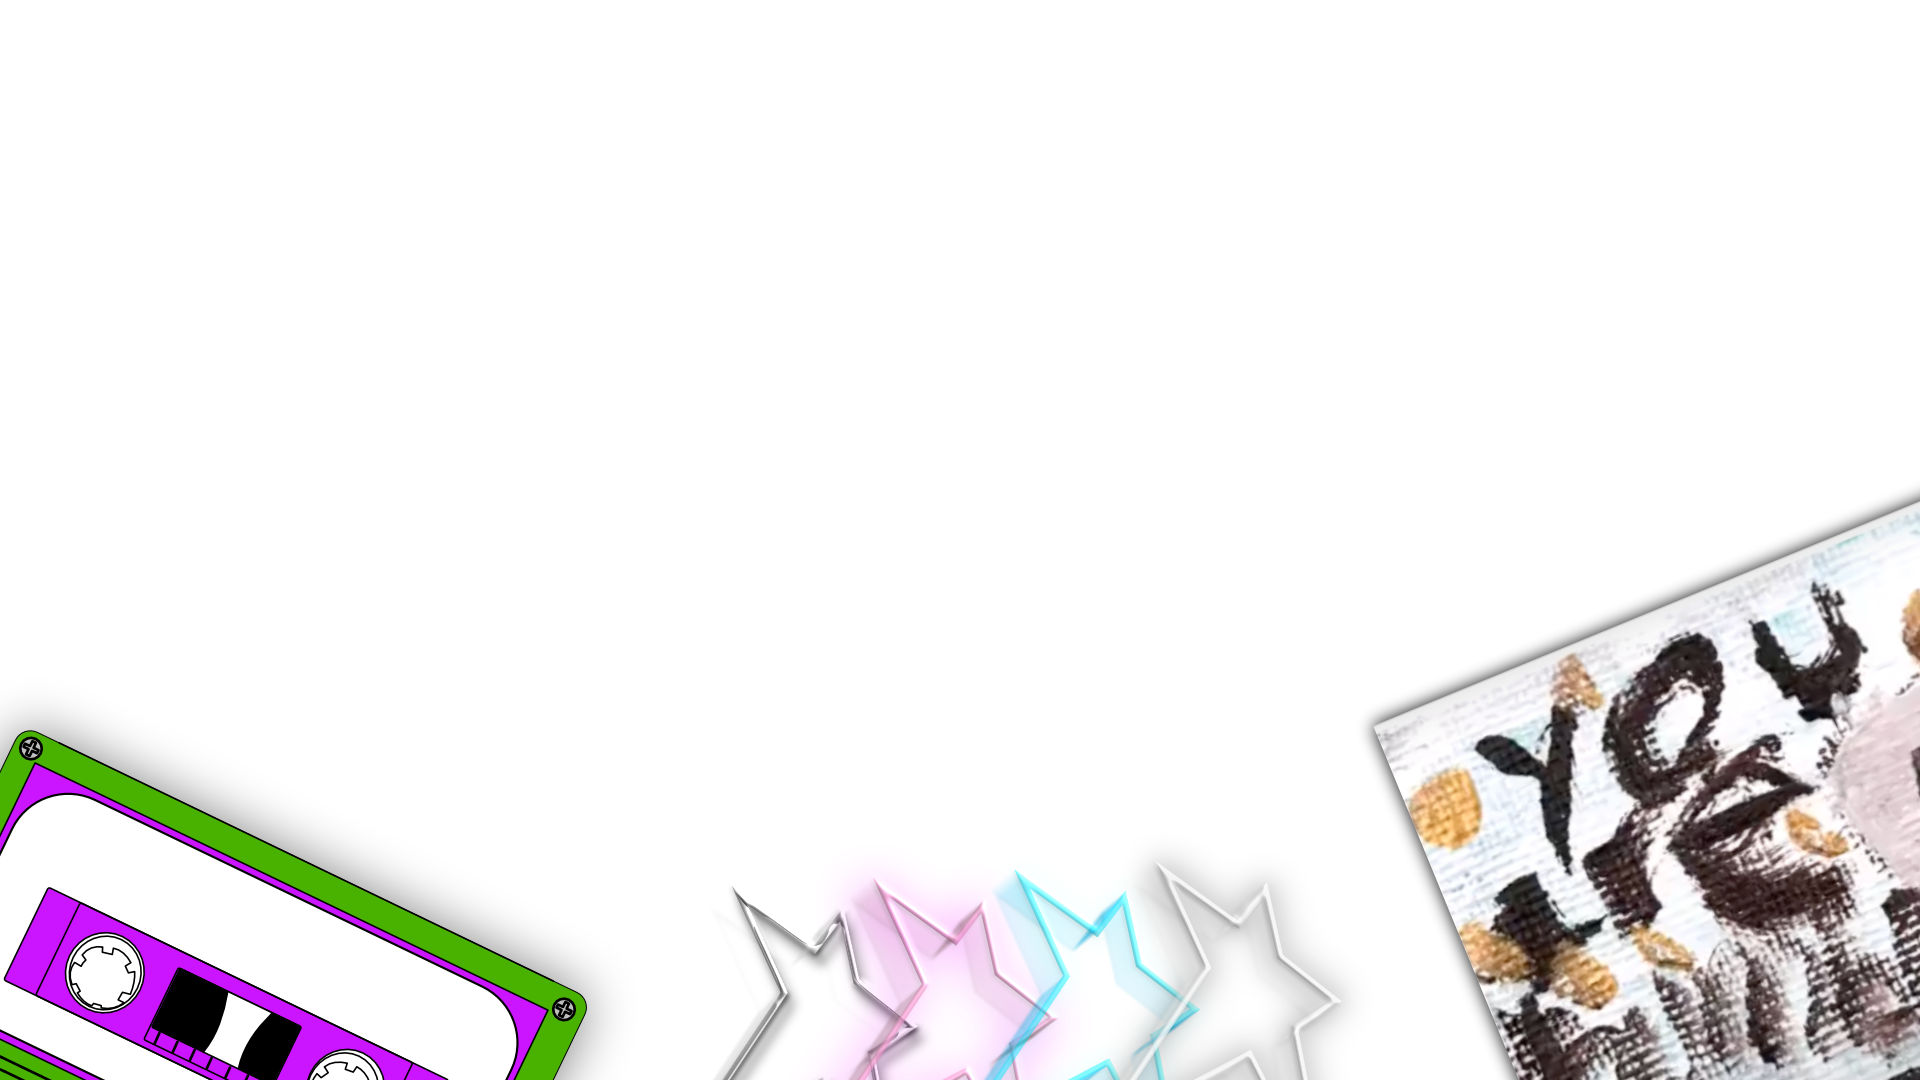
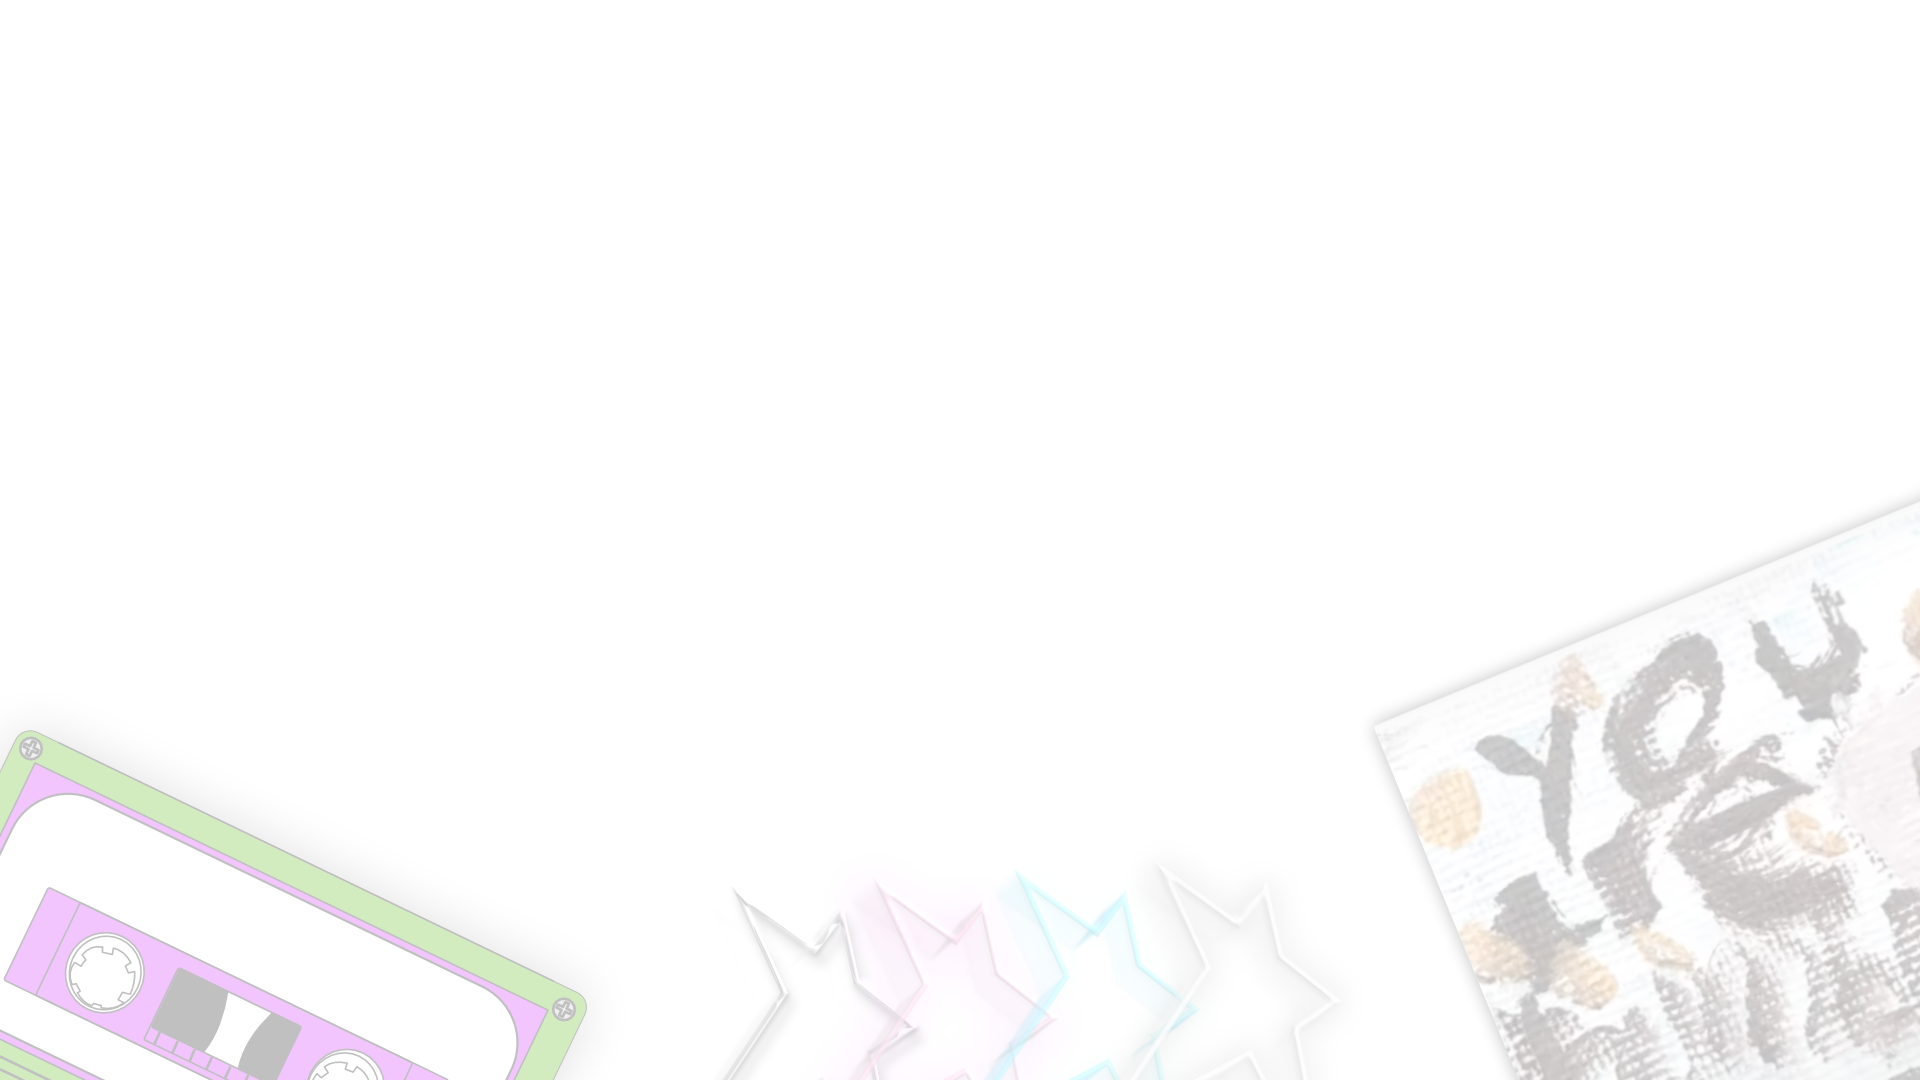
Add more features to fiction

diff --git a/fiction.html b/fiction.html
@@ -5,6 +5,7 @@
     <meta charset="UTF-8">
     <meta name="viewport" content="width=device-width, initial-scale=1.0">
     <link rel="stylesheet" href="style.css">
+    <link rel="shortcut icon" href="images/favicon.png" type="image/x-icon">
     <script src="https://kit.fontawesome.com/8efc22d7af.js" crossorigin="anonymous"></script>
     <script src="app.js" defer></script>
     <title>Jamie Drake Art - Fiction</title>
@@ -40,7 +41,7 @@
             <div class="fiction-box-container">
                 <div class="fiction-box-container-row-1">
                     <div class="fiction-box-container-row-1-col-1">
-                        <img src="images/the-appleseeds.jpeg" class="book-cover" alt="">
+                        <img src="images/the-appleseeds-cover.jpg" class="book-cover" alt="The Appleseeds">
                     </div>
                     <div class="fiction-box-container-row-1-col-2">
                         <p><strong><i>The Appleseeds </i>(2011) </strong>The Appleseeds is an urban Midwestern tale of
@@ -54,16 +55,18 @@
                             Indiana, and the life he dreamed ultimately results in redemption, which he achieves through
                             the love of an unforeseen soul. In the end, the songs of The Appleseeds are the only
                             evidence that remains of the dream. </p>
-                            <div class="fiction-btns-container">
-                                <a href="https://www.lulu.com/shop/andrew-apple/the-appleseeds/paperback/product-1252wrp8.html?page=1&pageSize=4" target="_blank"><img src="images/lulu-logo.png" class="fiction-btn"></a>
-                                <a href="https://drive.google.com/file/d/1APZz8fLQsECnFxgMueyR8H6Qm5A_C4mC/view" target="_blank"><img src="images/drive-logo.png" class="fiction-btn"></a>
-                            </div>
+                        <div class="fiction-btns-container">
+                            <a href="https://www.lulu.com/shop/andrew-apple/the-appleseeds/paperback/product-1252wrp8.html?page=1&pageSize=4"
+                                target="_blank"><img src="images/lulu-logo.png" class="fiction-btn"></a>
+                            <a href="https://drive.google.com/file/d/1APZz8fLQsECnFxgMueyR8H6Qm5A_C4mC/view"
+                                target="_blank"><img src="images/drive-logo.png" class="fiction-btn"></a>
+                        </div>
                     </div>
                 </div>
 
                 <div class="fiction-box-container-row-1">
                     <div class="fiction-box-container-row-1-col-1 left-card">
-                        <img src="images/the-places-we-lived.jpeg" class="book-cover"  alt="">
+                        <img src="images/the-places-we-lived.jpeg" class="book-cover" alt="">
                     </div>
                     <div class="fiction-box-container-row-1-col-2 right-card">
 
@@ -72,23 +75,34 @@
                             Reagan years. White, poor, and victimized, Lindo navigates the places he lives -- a world
                             forgotten by trickle-down economics -- with the help of baseball, friends, and some
                             inspirational adults that show him the path to a better way. </p>
+                        <div class="fiction-btns-container">
+                            <a href="https://www.lulu.com/shop/jamie-drake/the-places-we-lived/paperback/product-19kpp4r6.html?q=the+places+they+lived&page=1&pageSize=4"
+                                target="_blank"><img src="images/lulu-logo.png" class="fiction-btn"></a>
+                            <a href="https://drive.google.com/file/d/1ixshLCzf9Wv-lQscyrs3QZpdbdKjDye_/view"
+                                target="_blank"><img src="images/drive-logo.png" class="fiction-btn"></a>
+                        </div>
                     </div>
                 </div>
 
                 <div class="fiction-box-container-row-1">
                     <div class="fiction-box-container-row-1-col-1">
-                        <img src="images/testament.jpeg" class="book-cover"  alt="">
+                        <img src="images/testament.jpeg" class="book-cover" alt="">
                     </div>
                     <div class="fiction-box-container-row-1-col-2">
-
                         <p><strong><i>Testament </i>(2019) </strong>
                         </p>
+                        <div class="fiction-btns-container">
+                            <a href="https://www.lulu.com/shop/dixon-wood/testament/paperback/product-dwq2z8.html?page=1&pageSize=4"
+                                target="_blank"><img src="images/lulu-logo.png" class="fiction-btn"></a>
+                            <a href="https://drive.google.com/file/d/1xzwXqPx2smKfBs73e1HAQD33RMs9z3ra/view"
+                                target="_blank"><img src="images/drive-logo.png" class="fiction-btn"></a>
+                        </div>
                     </div>
                 </div>
 
                 <div class="fiction-box-container-row-1">
                     <div class="fiction-box-container-row-1-col-1">
-                        <img src="images/testament.jpeg" class="book-cover"  alt="">
+                        <img src="images/testament.jpeg" class="book-cover" alt="">
                     </div>
                     <div class="fiction-box-container-row-1-col-2">
 

diff --git a/the-murmurations.html b/the-murmurations.html
@@ -5,12 +5,13 @@
     <meta charset="UTF-8">
     <meta name="viewport" content="width=device-width, initial-scale=1.0">
     <link rel="stylesheet" href="style.css">
+    <link rel="shortcut icon" href="images/favicon.png" type="image/x-icon">
     <script src="https://kit.fontawesome.com/8efc22d7af.js" crossorigin="anonymous"></script>
     <script src="app.js" defer></script>
     <title>Jamie Drake Art - The Murmurations</title>
 </head>
 
-<body>
+<body id="murm-body">
     <main>
         <div id="header" class="header-1">
             <div class="container">
@@ -35,7 +36,7 @@
         <a href="#" class="go-top-btn"><i class="fa-solid fa-arrow-up"></i></a>
         <div class="band-info-container">
             <!-- <h1>The Murmurations</h1> -->
-            <img class="band-logo" src="images/bandlogo-nobkgrnd.png" alt="">
+            <img class="band-logo" src="images/band-logo.png" alt="">
             <div class="murm-container">
                 <div class="background-image"></div>
                 <p class="band-text"><strong>The Murmurations</strong> formed in 2017 when I asked some friends to help me

diff --git a/style.css b/style.css
@@ -172,8 +172,16 @@ nav ul li a:hover {
 }
 
 /* The Murmurations */
+#murm-body {
+  background-image: url('images/murm-website-background.png');
+  background-size: cover;
+  background-repeat: no-repeat;
+  background-attachment: fixed;
+  background-color: rgba(255, 255, 255, 0.5);
+}
 .band-logo {
     width: 40%;
+    margin: 50px 0;
 }
 .murm-container {
   width: 70%;
@@ -311,7 +319,10 @@ flex-wrap: wrap;
 }
 
 .fiction-box-container-row-1-col-1 img:hover {
-  box-shadow:8px 10px 16px 0 rgba(0,0,0,.4)
+  box-shadow:8px 10px 16px 0 rgba(0,0,0,.4);
+  filter: brightness(85%);
+  transition: .3s ease-in-out;
+  
 }
 
 .fiction-box-container-row-1-col-2 {

diff --git a/history.html b/history.html
@@ -5,6 +5,7 @@
     <meta charset="UTF-8">
     <meta name="viewport" content="width=device-width, initial-scale=1.0">
     <link rel="stylesheet" href="style.css">
+    <link rel="shortcut icon" href="images/favicon.png" type="image/x-icon">
     <script src="https://kit.fontawesome.com/8efc22d7af.js" crossorigin="anonymous"></script>
     <script src="app.js" defer></script>
     <title>Jamie Drake Art - History</title>

diff --git a/music.html b/music.html
@@ -5,6 +5,7 @@
     <meta charset="UTF-8">
     <meta name="viewport" content="width=device-width, initial-scale=1.0">
     <link rel="stylesheet" href="style.css">
+    <link rel="shortcut icon" href="images/favicon.png" type="image/x-icon">
     <script src="https://kit.fontawesome.com/8efc22d7af.js" crossorigin="anonymous"></script>
     <script src="app.js" defer></script>
     <title>Jamie Drake Art - Music</title>

diff --git a/verse.html b/verse.html
@@ -5,6 +5,7 @@
     <meta charset="UTF-8">
     <meta name="viewport" content="width=device-width, initial-scale=1.0">
     <link rel="stylesheet" href="style.css">
+    <link rel="shortcut icon" href="images/favicon.png" type="image/x-icon">
     <script src="https://kit.fontawesome.com/8efc22d7af.js" crossorigin="anonymous"></script>
     <script src="app.js" defer></script>
     <title>Jamie Drake Art - Verse</title>

diff --git a/index.html b/index.html
@@ -5,6 +5,7 @@
     <meta charset="UTF-8">
     <meta name="viewport" content="width=device-width, initial-scale=1.0">
     <link rel="stylesheet" href="style.css">
+    <link rel="shortcut icon" href="images/favicon.png" type="image/x-icon">
     <script src="https://kit.fontawesome.com/8efc22d7af.js" crossorigin="anonymous"></script>
     <script src="app.js" defer></script>
     <title>Jamie Drake Art</title>
